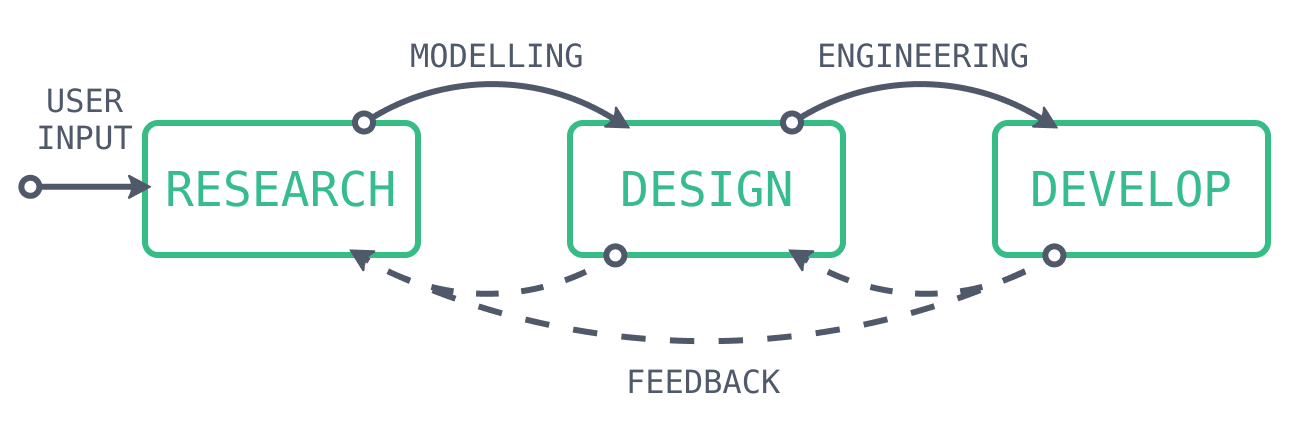
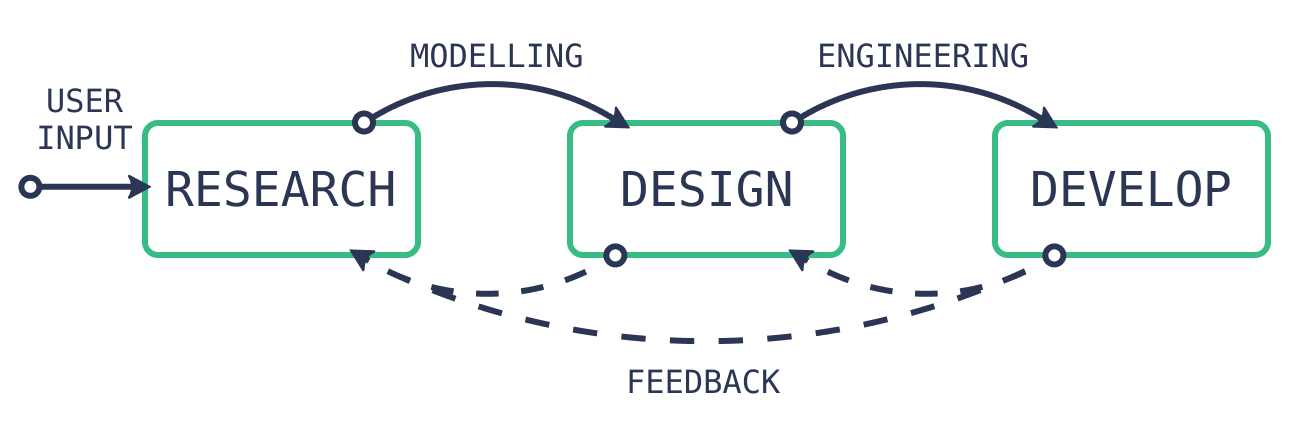
written another blog post and added some tweaks to the UI

diff --git a/src/styles/typography.scss b/src/styles/typography.scss
@@ -3,6 +3,7 @@ h1,
 h2,
 h3 {
   width: 100%;
+  color: var(--text-header);
 }
 
 h1 {
@@ -49,6 +50,7 @@ pre[class*='language-'] {
   font-size: 0.85rem;
   padding: 2rem;
   margin: 0rem -2rem;
+  background-color: var(--code-bg);
 
   > code[class*='language-'] {
     font-family: var(--monospace);
@@ -73,6 +75,16 @@ code[class*='language-']::selection {
   text-shadow: 0 0 0 #000000;
 }
 
+.header-anchor {
+  &:before {
+    content: '#';
+    width: 1.5rem;
+    display: inline-block;
+    color: var(--text-link);
+    margin-left: -1.5rem;
+  }
+}
+
 @media (max-width: 30rem) {
   h1 {
     font-size: 1.5rem;
@@ -84,5 +96,20 @@ code[class*='language-']::selection {
 
   pre[class*='language-'] {
     margin: 0 -1rem;
+  }
+
+  .header-anchor:before {
+    margin-left: 0rem;
+  }
+}
+
+cite {
+  width: 100%;
+  font-size: 1rem;
+  display: block;
+  text-align: right;
+
+  &:before {
+    content: '-- ';
   }
 }

diff --git a/src/styles/theme.scss b/src/styles/theme.scss
@@ -14,11 +14,13 @@ body {
 
 body.light {
   --bg-default: var(--white);
-  --footer-bg: var(--gray-500);
+  --footer-bg: var(--gray-400);
+  --code-bg: var(--gray-500);
 
   --text-default: var(--gray-500);
   --text-primary: var(--gray-500);
   --text-secondary: var(--gray-300);
+  --text-header: var(--gray-400);
 
   --blockquote-text: var(--gray-400);
 
@@ -39,10 +41,12 @@ body.light {
 body.dark {
   --bg-default: var(--gray-500);
   --footer-bg: var(--gray-500);
+  --code-bg: var(--gray-400);
 
   --text-default: var(--gray-100);
   --text-primary: var(--white);
   --text-secondary: var(--gray-200);
+  --text-header: var(--gray-100);
 
   --blockquote-text: var(--gray-200);
 

diff --git a/gatsby-config.js b/gatsby-config.js
@@ -59,6 +59,13 @@ module.exports = {
       options: {
         plugins: [
           {
+            resolve: `gatsby-remark-autolink-headers`,
+            options: {
+              icon: '',
+              className: `header-anchor`
+            }
+          },
+          {
             resolve: 'gatsby-remark-relative-images',
             options: {
               name: 'uploads'

diff --git a/src/styles/vars.scss b/src/styles/vars.scss
@@ -5,8 +5,8 @@
   --gray-100: #f2f3f2;
   --gray-200: #becedc;
   --gray-300: #828a99;
-  --gray-400: #4f596a;
-  --gray-500: #212938;
+  --gray-400: #2a3654;
+  --gray-500: #11192c;
 
   --green-200: hsl(155, 55%, 47%);
   --green-300: hsl(155, 55%, 39%);

diff --git a/src/styles/header.scss b/src/styles/header.scss
@@ -45,8 +45,7 @@ a.logo {
 
 .logo__text {
   font-size: 1.625rem;
-  font-weight: 600;
-  color: var(--text-primary);
+  color: var(--text-header);
 }
 
 @media (max-width: 30rem) {

diff --git a/src/styles/overview.scss b/src/styles/overview.scss
@@ -28,7 +28,7 @@
 
 a.entry__title {
   text-decoration: none;
-  color: var(--text-primary);
+  color: var(--text-header);
   cursor: pointer;
 
   &:hover *,

diff --git a/src/styles/post.scss b/src/styles/post.scss
@@ -46,7 +46,7 @@
   flex-direction: column;
 
   h1 {
-    color: var(--text-primary);
+    color: var(--text-header);
     padding-bottom: 0.25rem;
   }
 

diff --git a/src/pages/blog/interfacing-your-ui-components.md b/src/pages/blog/interfacing-your-ui-components.md
@@ -1,0 +1,103 @@
+---
+templateKey: blog-post
+title: Interfacing your UI components
+date: 2019-07-16T00:00:00.000Z
+description: >-
+  Interfacing on a UI component is a difficult concept. Interfaces do not only exist towards the users through the UI, but they also exist internally. Other engineers should be able to use our components within looking at the internals. To achieve this, you have to understand certain parts of the anatomy of a UI component.
+tags:
+  - UI
+  - API
+  - Interface
+  - component
+  - React
+---
+
+In recent years, front-end development became an important part of my life. But when I started years ago, I had no idea what an API was. I worked with them, but I never really cared what it exactly was, or what it requires to build one. I knew what the concept of interfaces in UI, but its relation with the I of API was lost to me. At a certain point, collaboration becomes more important. Your colleagues should be able to use and understand your work. This was the point for me that I started to see the connection between API and UI in frontend development.
+
+## What is an interface
+
+As a front-end engineer, you should always take the reusability of your work into account. On the other end, our work should also be usable and accessible to users. Both concepts come together with the modern way of working, where design systems are at the center of attention. As [Alla Kholmatova describes in her book](https://www.smashingmagazine.com/design-systems-book/) a design system consists of reusable patterns. But how do you make something reusable, especially when the content pattern itself is rather complex?
+
+This is where the concept of interfaces come into play. The every so trustworthy [Wikipedia](<https://en.wikipedia.org/wiki/Interface_(computing)>) has the defines an interface as follows:
+
+> An interface is a shared boundary across which two or more separate components of a computer system exchange information
+
+When looking at this definition with my front-end goggles, I directly see the word _component_. Two or more separate UI components that work together is exactly how most design systems are implemented. In [React](https://reactjs.org/docs/components-and-props.html) for instance, you provide data from a parent component to a child component through the _props_ of the child component. So is this the spot in front-end development where we design and develop interfaces? Yes, yes it is.
+
+As mentioned though, this is not the only place where interfaces play a role. When a user clicks on a button, or fills in a form and submits it, he or she is interacting with one (or more) of our components. The UI the user is interacting with is the shared boundary from the interface definition. The interactions of a user are a way of transferring information about his or her intentions towards our components.
+
+## Component anatomy
+
+So we are dealing with two types of interfaces when designing and developing components. By combining multiple of these components we can create a UI that the user can use that is connected to our system. Great! Are we done? Not completely. When we change something in one interface, it affects the other interface of the same component. To understand this better, we have to take a look at the component anatomy.
+
+![The UI component anatomy](/img/ui-component-anatomy.png 'The UI component anatomy')
+
+A UI component consists, as you can see, of several parts that interact with each other. When a user interacts with the UI, for instance by clicking a button, some logic is triggered inside the component. Depending on the type of logic, several things can happen within the component. The internal state of the component gets updated, we send a request to the backend, or we provide information back to the user. One important path inside the component is missing though. Through its API, it can provide information to other components. This only works when the other components have connected to your component, for instance by providing a callback function (e.g. an `onClick` function for a button component).
+
+So your component can provide information to other components through its API, but this also works the other way around. Another component can provide information through the API to your component. This is the interface used by other engineers. So when another component connects with our components through the API, our component runs some logic internally. Depending on the logic, it either updates its internal state, provides information back, or update the UI based on the information.
+
+In the last case, it is our component that describes in its API how it can connect with other components. It describes what type of information it can receive, but also when it can provide information back (through callback functions). We can often assume that other engineers are not aware of the internals of our UI components. So the interfaces become a way to describe how we want others to use and interact with our work. But how can we describe our interfaces to ensure others are aware of how they should interact with them?
+
+> The interfaces become a way to describe how we want others to use and interact with our work
+
+## Describing interfaces
+
+This problem is partly already solved for your users with proper design. Providing good visual queues to the user so they know where and how they can interact with your component is a good first step. A second step resides within the implementation of the designs. Not every user interacts with a UI the way you envision. This can have various reasons, but a big one can be disabilities. When a user is partly blind, he or she might use a screen reader to interact with your component. The design of the UI does not have to change, but on an implementation level, you have to consider these use cases. This is what is called the field of [accessibility](https://www.smashingmagazine.com/category/accessibility/) (or `a11y`).
+
+In the remainder of this post, however, I want to discuss the engineers' interface or the API. Describing how we want other engineers to interact with our UI component is not a trivial task. As an engineer, myself included, we often have the feeling that our work is self-explanatory. It is not. We have to describe at least some things to ensure engineers of different levels can use our work if we want to.
+
+- What APIs of our UI component do they have access to;
+- For each API, how they can use it and what its purpose is (e.g. describing how they can influence the styling of your UI component);
+- Examples showing the actual outcome (UI) and the influence of different combinations of API inputs.
+
+The above can be achieved in various ways. You can write extensive documentation in a markdown (`.md`) file (e.g. `README.md`). Building a documentation/playground website yourself where others (and you of course) can interact with your UI component is a fun option. If that requires a too big of an investment, using tools like [Gitbook](https://www.gitbook.com/) or [Storybook](https://storybook.js.org/) are good techniques for documenting UI components extensively, with a low investment.
+
+## API guidelines for React
+
+Up until now, it was a lot of text, too little examples (my bad, sorry). So let's discuss some pointers for describing your API using React. Hopefully, you will see that the examples can also be applied to other frameworks. In React, your APIs are the [_props_](https://reactjs.org/docs/components-and-props.html) you define. Let's look at a small button example with some properties.
+
+```jsx
+const Button = ({ onClick, variant, children, override, className, type }) => {
+  return (
+    <button
+      onClick={onClick}
+      type={type}
+      className={`${override.defaultClassName} ${className}`}
+      data-variant={variant}>
+      {children}
+    </button>
+  );
+};
+
+Button.propTypes = {
+  variant: PropTypes.oneOf(['primary', 'stroke', 'flat']).isRequired,
+  onClick: PropTypes.func.isRequired,
+  override: PropTypes.object
+};
+
+Button.defaultProps = {
+  variant: 'primary',
+  className: '',
+  override: {
+    defaultClassName: 'btn'
+  }
+};
+```
+
+At the top, we see our actual component. In the `return` statement we see what UI is being generated, but we can also see how the _props_ are applied. More importantly, though, are the `Button.propTypes` and `Button.defaultProps` in this case. The former is a way in React to describe the types of values we expect of each of the _props_ and if they are required. For the `variant` _prop_ we also see that we restrict the values it can have.
+
+With `defaultProps` we define some default values used by the component. Using default values is a good way to avoid unwanted side effects when someone uses our component. In the above component when `className` is not used, the CSS class `undefined` will be added, as the _prop_ is `undefined`. But because set a default value to an empty string, this empty string will be used instead of `undefined`. This avoids potential side-effects when someone creates a CSS class called undefined.
+
+One of the _props_ that might seem weird is `override`. Let's say you use a default class name for your buttons called `.btn`. Although it is a sensible and good name, other developers working on different projects might use a different default class name. In the `override` _props_ you can to override some default internal variables typically used. Ideally, it is hardly used, but it can be easy to way to make your components just a bit more powerful for others to use. If another developer does not want to override `override.defaultClassName` every time, he or she can just create a new component that wraps our `Button` component. This avoids the need for the other developer to know the internal logic of our component.
+
+```jsx
+const PrimaryButton = (props) => (<Button
+	variant="primary"
+	override={{ defaultClassName='company-btn' }}
+	{...props}
+/>);
+```
+
+## Now what?
+
+Interfacing for your components is hard. Other developers using your UI component might not be interested in the internals of it. Still, you have to ensure that it is clear to them how they can use and interact with it. In the end, they do influence the users' interface, the UI. Users also need to understand how they can interact with our components. When trying to achieve this, start small (e.g. naming convention of APIs). From there, you can expand and find better ways of interfacing than described in this post.

diff --git a/src/pages/blog/ux-design-process-for-engineers.md b/src/pages/blog/ux-design-process-for-engineers.md
@@ -48,6 +48,7 @@ As engineers, we can gather feedback on the design step from our colleague engin
 At the same conference, this year, [CSS Day](https://cssday.nl/2019), [Jared Spool](https://twitter.com/jmspool) had a very strong remark about design with a team. Like with almost every aspect of team-work, you are as weak as your weakest link. However, when it comes to design, it goes beyond your own team. Everybody that can influence the design decisions is a link in the process.
 
 > You are as weak as your weakest design influencer
+> <cite>[Jared Spool](https://twitter.com/jmspool)</cite>
 
 This sounds familiar to everybody. However, if you think about it, we underestimate it very often. Have you ever seen a design implementation of a stereotype back-end engineer or DevOps engineer? When you have front-end engineers in your team you would hardly ever let others implement a design of course. But this does not mean they cannot influence it. If you look back at the process, the engineering team can influence the designs by providing insights into technical feasibility, but also in the research phase. The engineering feedback should be given as a team, not by sole developers. So your backend and DevOps engineers become design influencers.
 
@@ -64,9 +65,12 @@ Jared Spool explained the position of UX design within a team or organization du
 An important milestone in this maturity model is getting to stage three, 'UX design as a service'. To get to this stage, executive management has to decide to start investing in UX design resources, for the first time. From a business perspective, getting to this strategic decision is a big step. It is important, however, to keep in mind that a team or organization is not on a fixed spot in the maturity model. Each design influencer and each team occupies its own place in the model. In the end, you are as weak as your weakest design influencer.
 
 > Each design influencer and team occupies its own place in the maturity model
+> <cite>[Jared Spool](https://twitter.com/jmspool)</cite>
 
 ## Honeywell vs. Nest
 
 I am not going to explain all the steps and transitions in this model, You should watch the talk of Jared Spool instead. But Jared uses a striking example of what the competitive edge of having a high level of UX design maturity in your team or organization. Honeywell was your go-to supplier for thermostats, but they were not able to offer a real experience. They thought, after offering a model with many features, that thermostats could not be innovated anymore. But this was a business and engineering decision. How could Nest beat Honeywell? The Nest-team was at the last stage of the maturity model. They started with an experienced team that all had fluent design skills. This resulted in building a company that was sold within a few years for over three billion dollars.
+
+## Conclusion
 
 As a software engineer you have to wonder yourself, do you want to be on the Nest or Honeywell side of the coin? If you want to be the next Nest, do not underestimate the value of UX design. Find out where your team stands on the maturity scale, and see what you can do to let your team take the next step!
